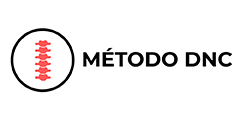
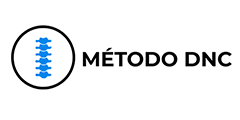
opa

Changed region(s): [[0.0292, 0.2, 0.9625, 0.775], [0.1458, 0.3, 0.2333, 0.675]]

diff --git a/index.html b/index.html
@@ -7,6 +7,16 @@
     <title>Método DNC</title>
     <link rel="stylesheet" href="style.css">
     <link rel="shortcut icon" href="imagem/faviconnn.png" type="image/x-icon">
+<!-- Vturb --> 
+<link rel="preload" href="https://scripts.converteai.net/23a4dbe8-41b8-4fda-b65f-396ccd11d0a7/players/632b8e80f1d4c400096b561a/player.js" as="script">
+<link rel="preload" href="https://cdn.converteai.net/lib/js/smartplayer/v1/smartplayer.min.js" as="script">
+<link rel="preload" href="https://images.converteai.net/23a4dbe8-41b8-4fda-b65f-396ccd11d0a7/players/632b8e80f1d4c400096b561a/thumbnail.jpg" as="image">
+<link rel="preload" href="https://cdn.converteai.net/23a4dbe8-41b8-4fda-b65f-396ccd11d0a7/632b8cbc369e77000acb181a/playlist.m3u8" as="fetch">
+<link rel="dns-prefetch" href="https://cdn.converteai.net">
+<link rel="dns-prefetch" href="https://scripts.converteai.net">
+<link rel="dns-prefetch" href="https://images.converteai.net">
+<link rel="dns-prefetch" href="https://api.vturb.com.br">
+<!-- Fim Vturb-->
 <!-- Global site tag (gtag.js) - Google Ads: 10788476685 -->
 <script async src="https://www.googletagmanager.com/gtag/js?id=AW-10788476685"></script>
 <script>
@@ -38,7 +48,7 @@
     <div id="container">
         <div id="disppai">
             <div id="disp">
-                <p class="videod">Vídeo disponível até: 22/01/2022</p> 
+                <p class="videod">Vídeo disponível até: 31/08/2022</p> 
             </div>
         </div>
         <div id="confpai">
@@ -47,12 +57,7 @@
         <div id="h3pai">
             <h3 class="cor">E SE EU TE CONTASSE</h3><h3>o que fazer para destravar sua dor nas costas</h3>
         </div>
-        <div class="wistia_responsive_padding">
-            <div class="wistia_responsive_wrapper">
-                <iframe src="https://fast.wistia.net/embed/iframe/6o049mnouc?seo=false&videoFoam=true" title="vsll Video" allow="autoplay; fullscreen" allowtransparency="true" frameborder="0" scrolling="no" class="wistia_embed" name="wistia_embed" msallowfullscreen width="100%" height="100%"></iframe>
-            </div>
-        </div>
-        <script src="https://fast.wistia.net/assets/external/E-v1.js" async></script>
+<div id="vid_632b8e80f1d4c400096b561a" style="position:relative;width:100%;padding: 56.25% 0 0;"><img id="thumb_632b8e80f1d4c400096b561a" src="https://images.converteai.net/23a4dbe8-41b8-4fda-b65f-396ccd11d0a7/players/632b8e80f1d4c400096b561a/thumbnail.jpg" style="position:absolute;top:0;left:0;width:100%;height:100%;object-fit:cover;display:block;"><div id="backdrop_632b8e80f1d4c400096b561a" style="position:absolute;top:0;width:100%;height:100%;-webkit-backdrop-filter:blur(5px);backdrop-filter:blur(5px);"></div></div><script type="text/javascript" id="scr_632b8e80f1d4c400096b561a">var s=document.createElement("script");s.src="https://scripts.converteai.net/23a4dbe8-41b8-4fda-b65f-396ccd11d0a7/players/632b8e80f1d4c400096b561a/player.js",s.async=!0,document.head.appendChild(s);</script>
         <div id="som">
             <img id="img" src="imagem/caixas-de-som.png" alt="">
             <p id="ps">POR FAVOR, VERIFIQUE SE O SEU SOM ESTÁ LIGADO</p>
@@ -228,28 +233,28 @@
                 <p class="desc">Sendo a parte mais esperada, entraremos no verdadeiro passo a passo para você acabar com as suas dores em trinta dias. Esse é o momento em que você deve estar mais atento às explicações e ao programa em si. Seguindo o passo a passo, você verá o quão a sua dor melhorará até chegar no ponto em que você não sinta mais nada. É realmente incrível!</p>
             </div>
         </div>
-        <div id="pitch2">
+        <!--<div id="pitch2">
             <img id="imgpi2" src="imagem/pitch2.png" alt="">
-        </div>
+        </div>-->
         <div id="pitch">
             <img id="imgpi" src="imagem/pitch.png" alt="">
         </div>
         <div id="botao2caixa">
-        <div id="botaopai2">
-            <!--<button id="botao2" onclick="openm()">Quero acabar com as dores nas costas</button>-->
-            <a id="botao2" href="https://pay.kiwify.com.br/5dfLBf5">Quero acabar com as dores nas costas</a>
-        </div>
-        <div id="vagas2">
-            <p id="vvvv2">Vagas limitadas!</p>
-        </div>
-        <div id="pagamentos2">
-            <img id="imgpag2" src="imagem/pagamentos.png" alt="">
-        </div>
-        </div>
+            <div id="botaopai2">
+                <!--<button id="botao2" onclick="openm()">Quero acabar com as dores nas costas</button>-->
+                <a id="botao2" href="https://pay.kiwify.com.br/5dfLBf5">Quero acabar com as dores nas costas</a>
+            </div>
+            <div id="vagas2">
+                <p id="vvvv2">Vagas limitadas!</p>
+            </div>
+            <div id="pagamentos2">
+                <img id="imgpag2" src="imagem/pagamentos.png" alt="">
+            </div>
+            </div>
         <div id="garantia">
             <div id="garant">
                 <img id="imggg" src="imagem/7-dias-garantia.webp" alt="">
-                <p id="garan">Programa de 7 dias com toda a orientação necessária para você nunca mais sofrer com dores nas costas de forma rápida e saudável.</p>
+                <p id="garan">Vamos te dar 7 dias para você testar nosso produto!</p>
             </div>
         </div>
         <div id="perguntas">

diff --git a/style.css b/style.css
@@ -7,7 +7,7 @@
     src: url('fonts/Montserrat-VariableFont_wght.ttf');
 }
 body{
-    background-color: #FA403E;
+    background-color: #1084E7;
 }
 #container{
 }
@@ -205,7 +205,7 @@ h3.cor{
 }
 .titlebb{
     color: #ffffff;
-    background-color: #FA403E;
+    background-color: #1084E7;
     padding: 20px;
 }
 #beneficios{
@@ -216,7 +216,7 @@ h3.cor{
     align-items: center;
     flex-wrap: wrap;
     gap: 20px;
-    background-color: #FA403E;
+    background-color: #1084E7;
     display: none;
 }
 .conteudo1{
@@ -234,12 +234,12 @@ h3.cor{
     width: 180px;
 }
 .benefi{
-    color: #FA403E;
+    color: #1084E7;
     font-size: 20px;
     margin-bottom: 10px;
 }
 .benef{
-    color: #FA403E;
+    color: #1084E7;
     font-size: 16px;
 }
 #logodes{
@@ -264,7 +264,7 @@ h3.cor{
     flex-direction: column;
 }
 #de{
-    color: #FA403E;
+    color: #1084E7;
     margin-bottom: 14px;
     font-size: 20px;
 }
@@ -277,7 +277,7 @@ h3.cor{
 }
 .titledd{
     color: #ffffff;
-    background-color: #FA403E;
+    background-color: #1084E7;
     padding: 20px;
 }
 #descobrir{
@@ -288,7 +288,7 @@ h3.cor{
     align-items: center;
     flex-wrap: wrap;
     gap: 20px;
-    background-color: #FA403E;
+    background-color: #1084E7;
     display: none;
 }
 .conteudo2{
@@ -303,12 +303,12 @@ h3.cor{
     box-shadow: 0px 0px 10px 1px #00000050;
 }
 .desco{
-    color: #FA403E;
+    color: #1084E7;
     font-size: 20px;
     margin-bottom: 10px;
 }
 .desc{
-    color: #FA403E;
+    color: #1084E7;
     font-size: 16px;
 }
 #pitch2{
@@ -381,7 +381,7 @@ h3.cor{
     min-width: 150px;
 }
 #garantia{
-    background-color: #FA403E;
+    background-color: #1084E7;
     padding: 80px 20px;
     display: none;
 } 
@@ -409,14 +409,14 @@ h3.cor{
     display: none;
 }
 .titleppp{
-    color:#FA403E;
+    color:#1084E7;
     margin-bottom: 18px;
 }
 .pergunt{
-    color: #FA403E;
+    color: #1084E7;
     font-family: "M";
     font-weight: bold;
-    border: 2px solid #FA403E;
+    border: 2px solid #1084E7;
     padding: 18px;
     margin: 0px auto;
     width: 80%;
@@ -425,7 +425,7 @@ h3.cor{
     font-size: 20px;
 }
 .pergu{
-    color: #FA403E;
+    color: #1084E7;
     margin-top: 10px;
     font-size: 18px;
 }
@@ -695,7 +695,7 @@ p{
     }
     .titlebb{
         color: #ffffff;
-        background-color: #FA403E;
+        background-color: #1084E7;
         padding: 13.3px;
     }
     #beneficios{
@@ -706,7 +706,7 @@ p{
         align-items: center;
         flex-wrap: wrap;
         gap: 13.3px;
-        background-color: #FA403E;
+        background-color: #1084E7;
         display: none;
     }
     .conteudo1{
@@ -724,12 +724,12 @@ p{
         width: 120px;
     }
     .benefi{
-        color: #FA403E;
+        color: #1084E7;
         font-size: 16px;
         margin-bottom: 6.6px;
     }
     .benef{
-        color: #FA403E;
+        color: #1084E7;
         font-size: 16px;
     }
     #logodes{
@@ -754,7 +754,7 @@ p{
         flex-direction: column;
     }
     #de{
-        color: #FA403E;
+        color: #1084E7;
         margin-bottom: 9.3px;
         font-size: 16px;
     }
@@ -767,7 +767,7 @@ p{
     }
     .titledd{
         color: #ffffff;
-        background-color: #FA403E;
+        background-color: #1084E7;
         padding: 13.3px;
     }
     #descobrir{
@@ -778,7 +778,7 @@ p{
         align-items: center;
         flex-wrap: wrap;
         gap: 13.3px;
-        background-color: #FA403E;
+        background-color: #1084E7;
         display: none;
     }
     .conteudo2{
@@ -793,12 +793,12 @@ p{
         box-shadow: 0px 0px 10px 1px #00000050;
     }
     .desco{
-        color: #FA403E;
+        color: #1084E7;
         font-size: 16px;
         margin-bottom: 6.6px;
     }
     .desc{
-        color: #FA403E;
+        color: #1084E7;
         font-size: 16px;
     }
     #pitch2{
@@ -871,7 +871,7 @@ p{
         min-width: 150px;
     }
     #garantia{
-        background-color: #FA403E;
+        background-color: #1084E7;
         padding: 53.3px 13.3px;
         display: none;
     } 
@@ -899,14 +899,14 @@ p{
         display: none;
     }
     .titleppp{
-        color:#FA403E;
+        color:#1084E7;
         margin-bottom: 12px;
     }
     .pergunt{
-        color: #FA403E;
+        color: #1084E7;
         font-family: "M";
         font-weight: bold;
-        border: 1.3px solid #FA403E;
+        border: 1.3px solid #1084E7;
         padding: 12px;
         margin: 0px auto;
         width: 80%;
@@ -915,7 +915,7 @@ p{
         font-size: 16px;
     }
     .pergu{
-        color: #FA403E;
+        color: #1084E7;
         margin-top: 6.6px;
         font-size: 16px;
     }

diff --git a/script.js b/script.js
@@ -10,7 +10,7 @@ setTimeout(
         var elemento9 = document.getElementById('garantia')
         var elemento10 = document.getElementById('perguntas')
         var elemento11 = document.querySelector('#pagamentos')
-        var elemento12 = document.getElementById('pitch2')
+        //var elemento12 = document.getElementById('pitch2')
         var elemento13 = document.querySelector('#vagas')
         var elemento14 = document.querySelector('#botaopai2')
         var elemento15 = document.querySelector('#pagamentos2')
@@ -29,7 +29,7 @@ setTimeout(
         elemento9.style.display = "block";
         elemento10.style.display = "flex";
         elemento11.style.display = "flex";
-        elemento12.style.display = "flex";
+        //elemento12.style.display = "flex";
         elemento13.style.display = "flex";
         elemento14.style.display = "flex";
         elemento15.style.display = "flex";
@@ -37,4 +37,4 @@ setTimeout(
         elemento17.style.display = "block";
         elemento18.style.display = "flex";
         elemento19.style.display = "block";
-    }, /*tempo em milisegundos*/ 600000)
+    }, /*tempo em milisegundos*/ 500)
